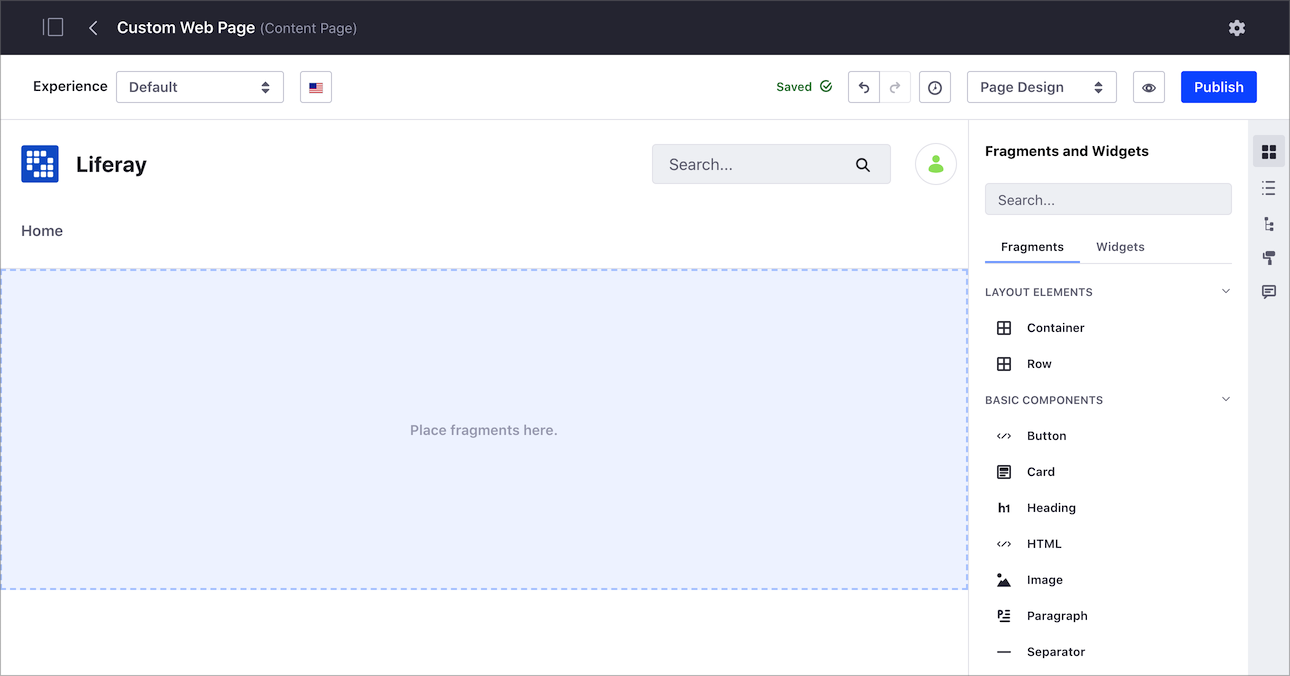
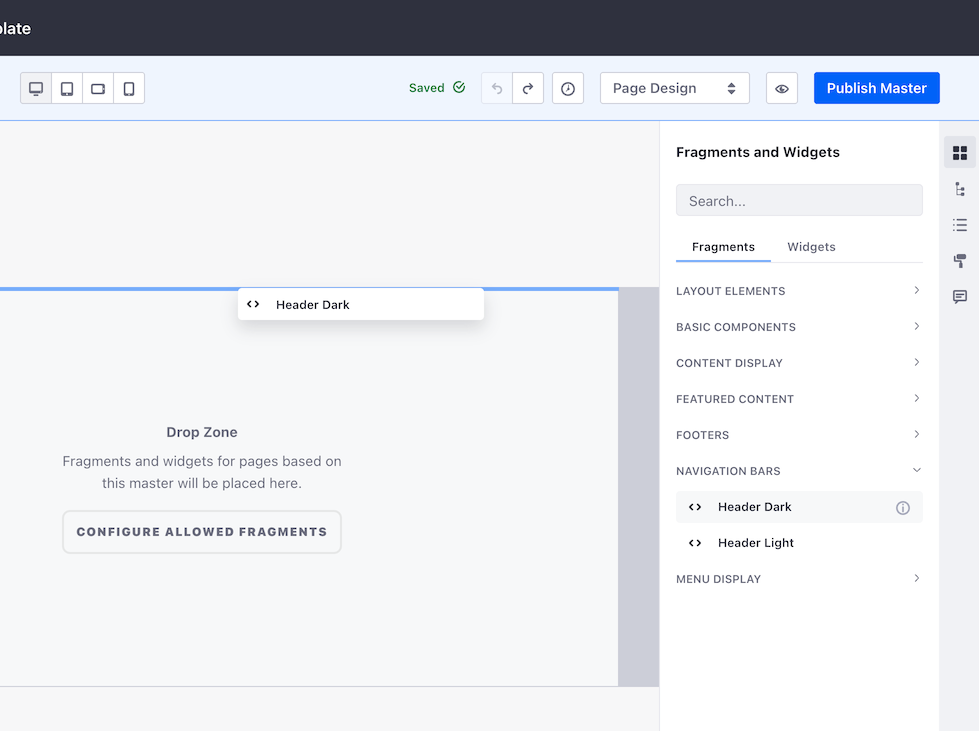
LRDOCS-8906 Fix menu descripton. Update steps and images. Add Related Information.

diff --git a/docs/dxp/7.x/en/site-building/creating-pages/defining-headers-and-footers/creating-a-master-page-template.md b/docs/dxp/7.x/en/site-building/creating-pages/defining-headers-and-footers/creating-a-master-page-template.md
@@ -6,28 +6,39 @@ Although Portal includes default Master Page Templates that you can use to defin
 
 Follow these steps to create a Master Page Template:
 
-1. Open Product Menu and go to Site &rarr; *Site Builder* &rarr; *Page Templates*.
-1. Under the *Masters* tab, click the add button to create a new Master Page Template.
+1. Open Product Menu and go to Site &rarr; *Design* &rarr; *Page Templates*.
+1. Under the *Masters* tab, click the *Add* (![Add](../../../images/icon-add.png)) button to create a new Master Page Template.
 
     ![Create a Master Page Template under the Masters tab.](./creating-a-master-page-template/images/01.png)
 
-1. Add Page Fragments for the common elements that you require.
+1. Type the *Name* of your new Master Page Template and click *Save*.
+1. Click the *Fragments and Widgets* (![Fragments and Widgets](../../../images/icon-cards2.png)) button and add Fragments for common elements like the footer or navigation bar.
 
     ![Add the Master Page Template's common elements from the Footers and Navigation Bars sections.](./creating-a-master-page-template/images/02.png)
 
 1. Optionally drag and drop the Drop Zone to a new location in the layout. For example, you can add a row with two columns and move the Drop Zone to one column, so users can only add Page Fragments to that portion of the page.
 
-    ![You can move the Drop Zone to control where users can add Page Fragments.](./creating-a-master-page-template/images/03.png)
+    ![You can move the Drop Zone to control where users can add Page Fragments.](./creating-a-master-page-template/images/03.gif)
 
-1. Optionally specify which Page Fragments can be added to the Drop Zone by clicking the *Configure Allowed Fragments* button. Check the boxes for the Page Fragments you want to allow. Check the box for *Allow New Fragments* to allow new Page Fragments to be added to the Drop Zone. click *Save* to apply the changes.
+1. Optionally specify which Page Fragments can be added to the Drop Zone by clicking the *Configure Allowed Fragments* button.
+
+    - Check the Page Fragments you want to allow in this Master Page Template.
+    - Check the *Select New Fragments Automatically* box to include new fragment types in the list of allowed fragments.
 
     ![Check and uncheck Fragments from the Allowed Fragments dialog to specify whether they can be added to a page that uses this Master Page Template.](./creating-a-master-page-template/images/04.png)
 
-1. You can revert any action using the *Undo* (![Preview](../../../images/icon-undo.png)) or *Redo* (![Preview](../../../images/icon-redo.png)) buttons, or you can return to a previous version of your edits using the *History* (![Preview](../../../images/icon-time.png)) button.
-
+1. Click *Save* to close the *Allowed Fragments* dialog.
 1. To preview your Content Page, click the *Preview* button (![Preview](../../../images/icon-preview.png)).
-1. Click *Publish* to create the Master Page Template.
+1. Click *Publish Master* to create the Master Page Template.
+
+You can revert any action using the *Undo* (![Preview](../../../images/icon-undo.png)) or *Redo* (![Preview](../../../images/icon-redo.png)) buttons, or you can return to a previous version of your edits using the *History* (![Preview](../../../images/icon-time.png)) button.
 
 ```note::
   If a custom Master Page Template is used for a page, the Theme for the page is defined through the Master Page Template and can't be changed through the page's settings. See `Changing a Master Page Template's Theme <./managing-master-pages.md#changing-a-master-page-template-s-theme>`_ for more information.
 ```
+
+## Related Information
+
+- [Master Page Templates](./master-page-templates.md)
+- [Managing Master Page Templates](./managing-master-pages.md)
+- [Understanding Pages](../understanding-pages/understanding-pages.md)
